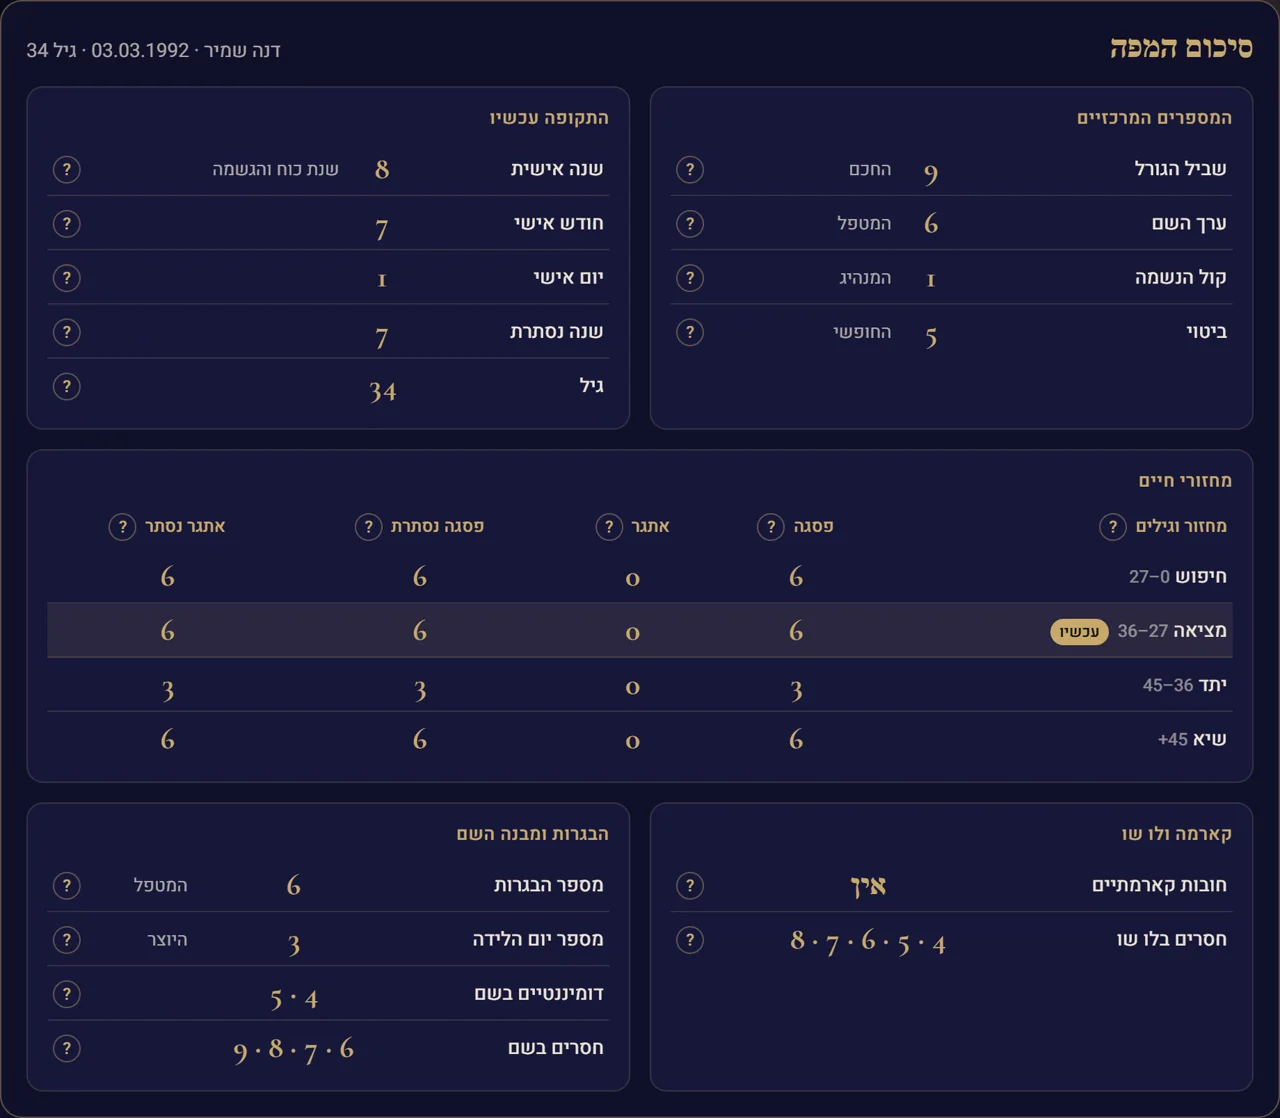
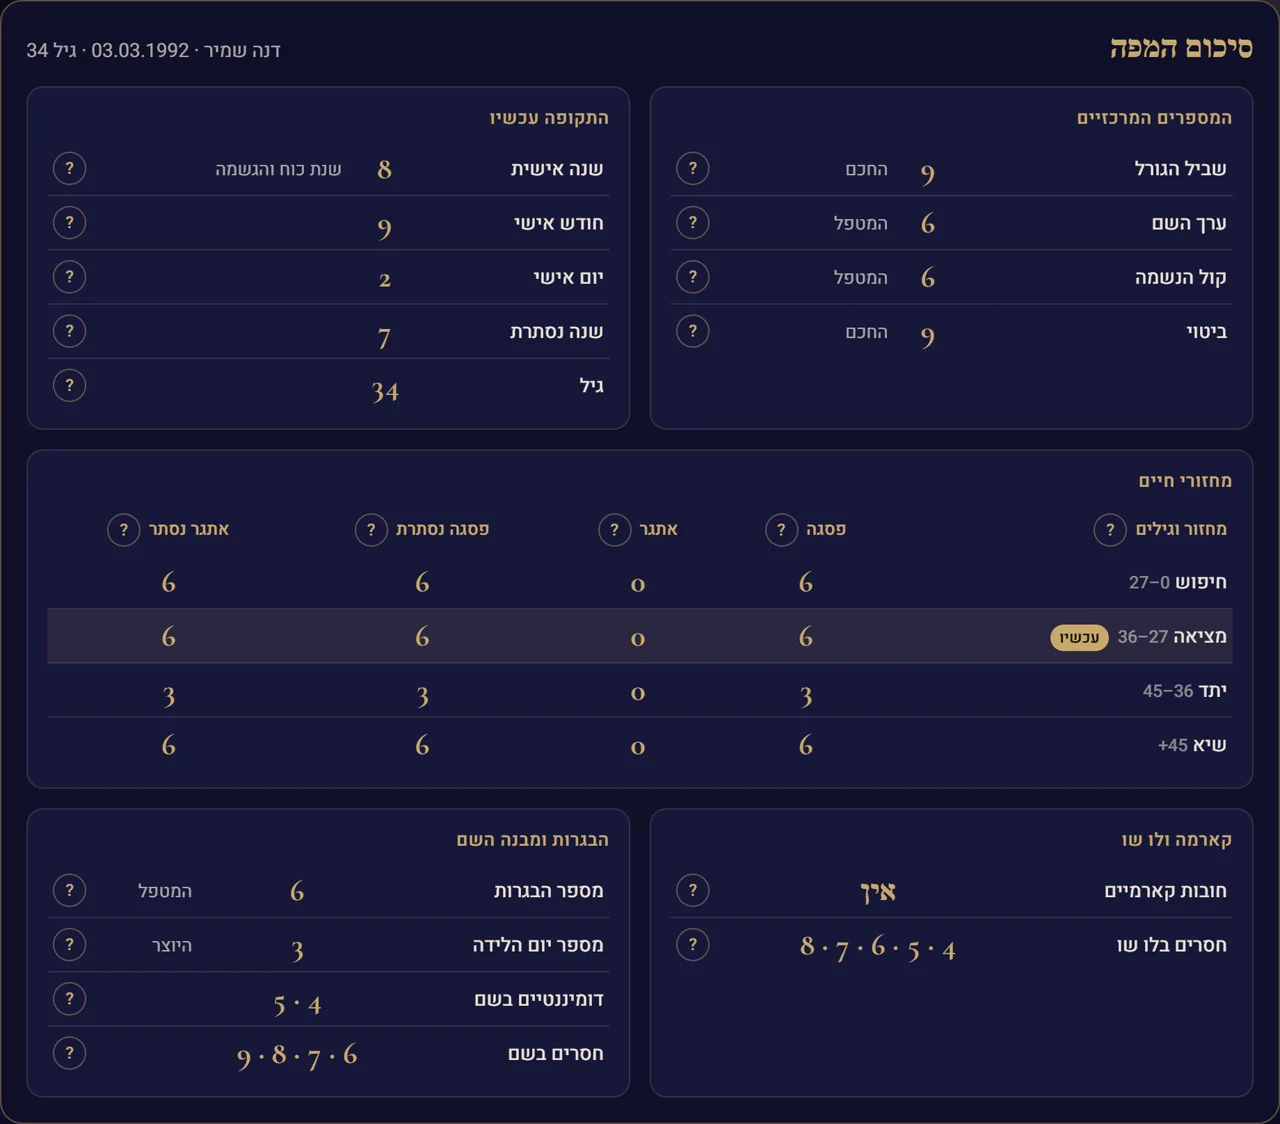
feat(sales): screenshots from the full Studio with the owner's new method
Retaken from the dev-only lab (the whole Studio over the sample clients,
as a subscriber sees it; the demo now blurs the year's theme too), so
the numbers follow engine 2.0.0 and no licence line shows. The share
preview is rebuilt from them.

diff --git a/src/sales/sections.jsx b/src/sales/sections.jsx
@@ -5,9 +5,9 @@ import { PRICE_MONTHLY, TRIAL_DAYS } from "./config.js";
 
 /** Real screenshots of the demo (public/sales), sample clients only; sizes keep the page from jumping. */
 const SHOTS = {
-  summary: { src: "/sales/shot-summary.webp", width: 1280, height: 1118 },
+  summary: { src: "/sales/shot-summary.webp", width: 1280, height: 1124 },
   how: { src: "/sales/shot-how.webp", width: 1040, height: 558 },
-  today: { src: "/sales/shot-today.webp", width: 1400, height: 856 },
+  today: { src: "/sales/shot-today.webp", width: 1400, height: 874 },
 };
 
 /** A link to the owner: WhatsApp (in a new tab) or an email. Nothing without a contact. */
